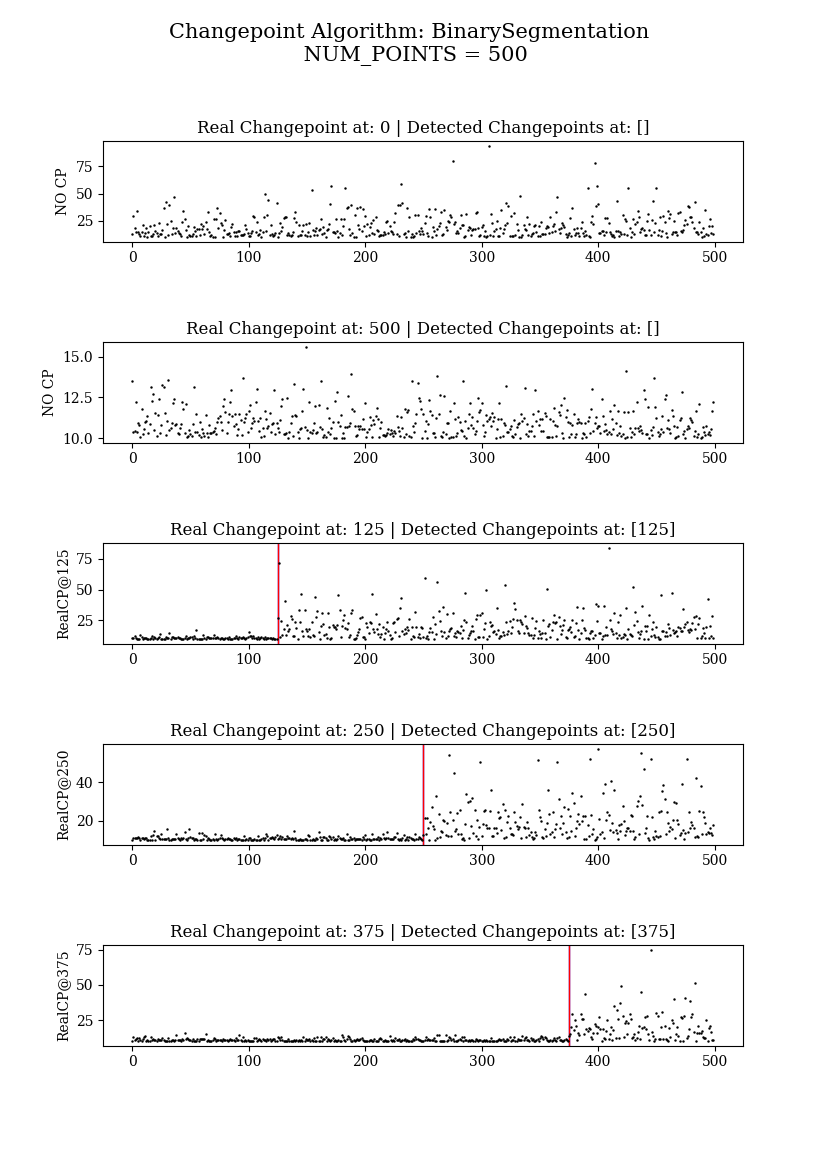
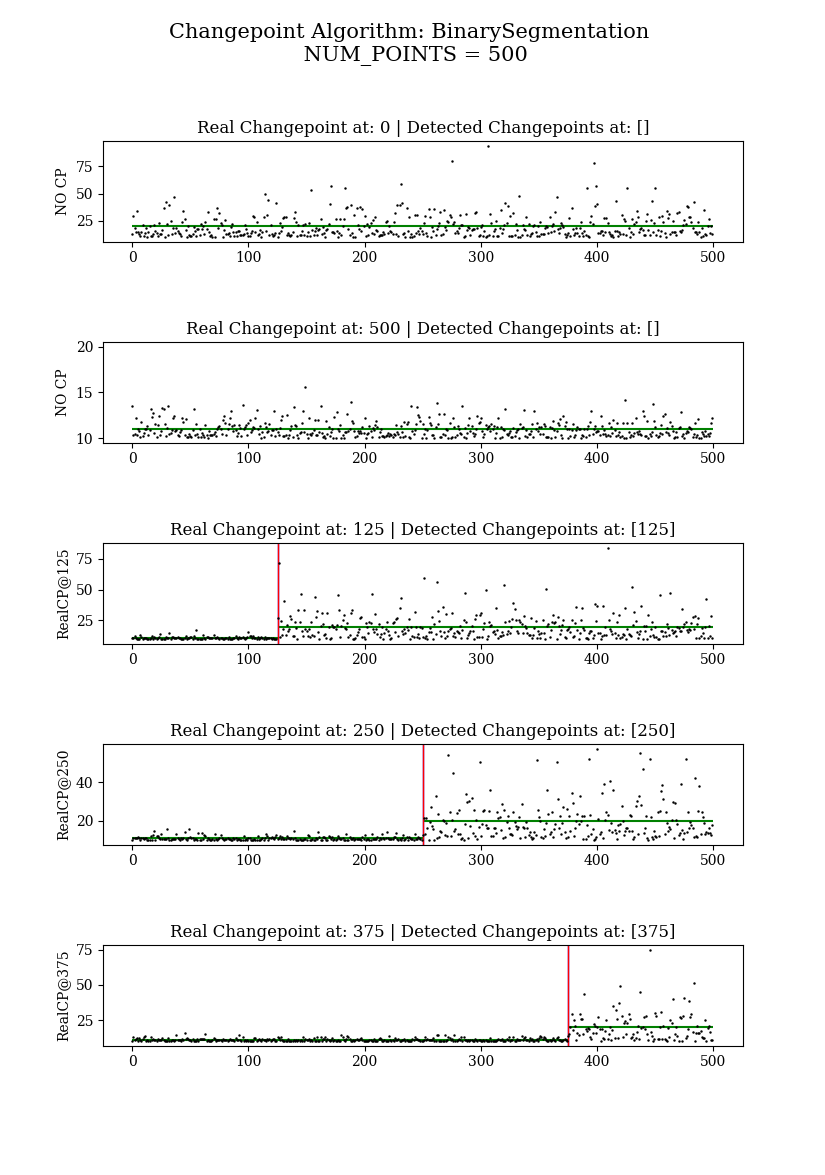
added finishing touches

diff --git a/main.py b/main.py
@@ -1,5 +1,8 @@
 # https://stackoverflow.com/questions/8409095/set-markers-for-individual-points-on-a-line-in-matplotlib
 # https://jeremy9959.net/Blog/bayesian-online-changepoint-fixed/
+# https://stackoverflow.com/questions/33382619/plot-a-horizontal-line-using-matplotlib/50444098
+# https://matplotlib.org/3.3.2/api/_as_gen/matplotlib.pyplot.axis.html
+
 
 # General libs
 import scipy.stats as ss
@@ -67,7 +70,11 @@ def plot_multiple_data(data_list):
         axs[i].set_title("n={}; CPL: {}; lambdas={}; ts={}".
                   format(data['n'], data['c'], repr(data['lambdas']), repr(data['ts'])))
         # plt.ylabel("Y axis")
+        axs[i].set(ylim=(0, 100))
         axs[i].axvline(x=data['c'], linewidth=1, color='blue')
+        axs[i].hlines(y=11, xmin=0, xmax=data['c'], linewidth=2, color='g')
+        axs[i].hlines(y=20, xmin=data['c'], xmax=data['n'], linewidth=2, color='g')
+
         if 'detected_changepoints' in data.keys():
             for changepoint_model in data['detected_changepoints']:
                 # for j in range(len(data['detected_changepoints'][changepoint_model])):
@@ -113,6 +120,8 @@ def plot_multiple_data_by_algorithm(data_list, changepoint_algorithm):
 
         axs[i].set_title("Real Changepoint at: {} | Detected Changepoints at: {}".
                   format(data['c'], repr(data['detected_changepoints'][changepoint_algorithm])))
+        axs[i].hlines(y=11, xmin=0, xmax=data['c'], linewidth=1.5, color='g')
+        axs[i].hlines(y=20, xmin=data['c'], xmax=data['n'], linewidth=1.5, color='g')
 
         # plt.ylabel("NUM_POINTS = {}".format(data_list[i]['n']))
 
